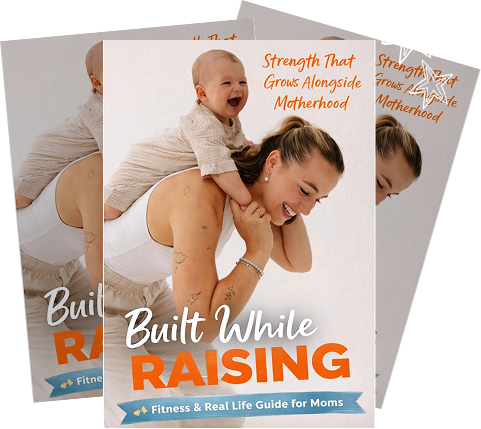
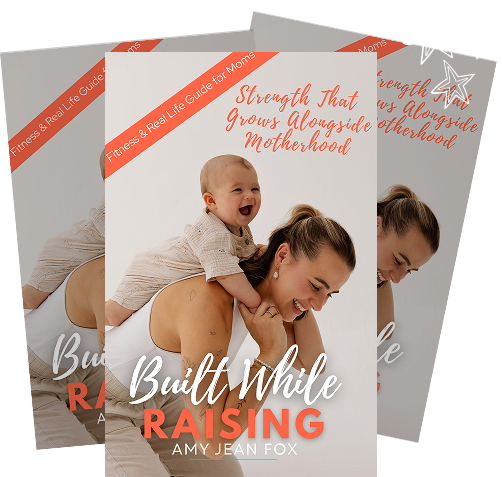
ebook image changes

diff --git a/Amy-Portfolio/src/Product/Product.jsx b/Amy-Portfolio/src/Product/Product.jsx
@@ -116,7 +116,7 @@ const Product = () => {
             whileInView="visible"
             viewport={{ once: true }}
           >
-            <img src="Images/Ebook/Amy_Lee_Ebook_Cover.png" alt="Ebook Cover" />
+            <img src="Images/Ebook/Amy_Fox_Ebook_Cover.png" alt="Ebook Cover" />
           </motion.div>
 
 
